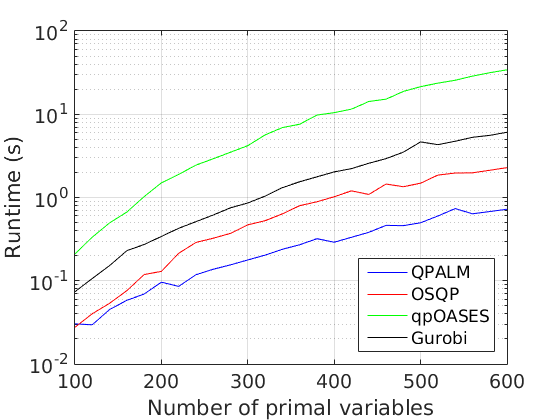
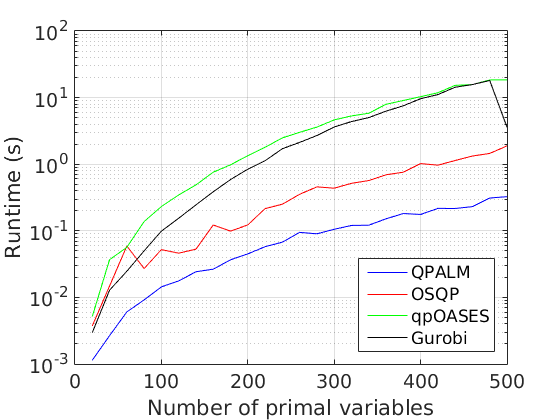
Updated readme

diff --git a/simulations/compare_QP_solvers.m b/simulations/compare_QP_solvers.m
@@ -2,7 +2,7 @@ function [ x, timings, iter, status, options ] = compare_QP_solvers( prob, optio
 %Run QPALM (Matlab), QPALM (C), OSQP, qpoases, and GUROBI on the given problem 
 %n times and return the solution and timings
 
-n = 5; %to get an average timing
+n = 1; %to get an average timing
 t = zeros(n,1);
 
 VERBOSE = false;
@@ -92,14 +92,14 @@ if options.qpalm_c
         settings = solver.default_settings();
         
         settings.verbose = VERBOSE;
-        settings.scaling = SCALING_ITER;
+        settings.scaling = 2;
         settings.max_iter = MAXITER;
         settings.eps_abs_in = min(EPS_ABS*1e6, 1);
         settings.eps_rel_in = min(EPS_REL*1e6, 1);
         settings.eps_abs = EPS_ABS;
         settings.eps_rel = EPS_REL;
-        settings.delta   = 1.2;
-        settings.memory  = 20;
+        settings.delta   = 10;
+%         settings.memory  = 20;
         
         solver.setup(prob.Q, prob.q, A,lbA,ubA, settings);
         res_qpalm = solver.solve();

diff --git a/simulations/randomQP.m b/simulations/randomQP.m
@@ -4,8 +4,8 @@ clear; close all;
 current = fileparts(mfilename('fullpath'));
 cd(current);
 
-options.qpalm_matlab = true;
-options.qpalm_c = false;
+options.qpalm_matlab = false;
+options.qpalm_c = true;
 options.osqp = true;
 options.qpoases = true;
 options.gurobi = true;
@@ -17,7 +17,7 @@ Tqpoases = [];
 Tgurobi = [];
 
 % n_values = 3:4;
-n_values = 100:20:600;
+n_values = 20:20:500;
 nb_n = length(n_values);
 
 for i = 1:nb_n

diff --git a/simulations/plot_QP_comparison.m b/simulations/plot_QP_comparison.m
@@ -5,7 +5,7 @@ load(file)
 close all
 figure
 
-semilogy(n_values(1:length(Tqpalm_matlab)), Tqpalm_matlab, 'b',...
+semilogy(n_values(1:length(Tqpalm_c)), Tqpalm_c, 'b',...
     n_values(1:length(Tosqp)), Tosqp, 'r',...
     n_values(1:length(Tqpoases)), Tqpoases, 'g',...
     n_values(1:length(Tgurobi)), Tgurobi, 'k');

diff --git a/README.md b/README.md
@@ -2,13 +2,18 @@
 
 A proximal augmented Lagrangian method for QPs using semismooth Newton direction and exact line search.
 
-## Code Example
-
-Check out examples/qpalm_matlab_demo.m for a demo on how to call QPALM.
-
 ## Installation
 
-For the C version, run qpalm_setup.m.
+* To install the mex interface of QPALM, add QPALM and its subfolders to the matlab path. Then run qpalm_make.m
+* To install a C-callable library, compile suitesparse, see [here](https://github.com/jluttine/suitesparse). Then run `make` in the QPALM directory.
+* To use the Matlab version of QPALM, compile the CHOLMOD mex functions (suitesparse/CHOLMOD/MATLAB/cholmod_make.m), and run QPALM/matlab/mex/PWAlinesearch_setup.m.
+
+## Code Example
+
+Basic demos are available for the different ways to call the solver.
+* For the mex interface of QPALM, check out examples/qpalm_mex_demo.m.
+* For the C-version of QPALM, check out examples/qpalm_demo.c.
+* For the matlab version of QPALM, check out examples/qpalm_matlab_demo.m.
 
 ## Tests
 
